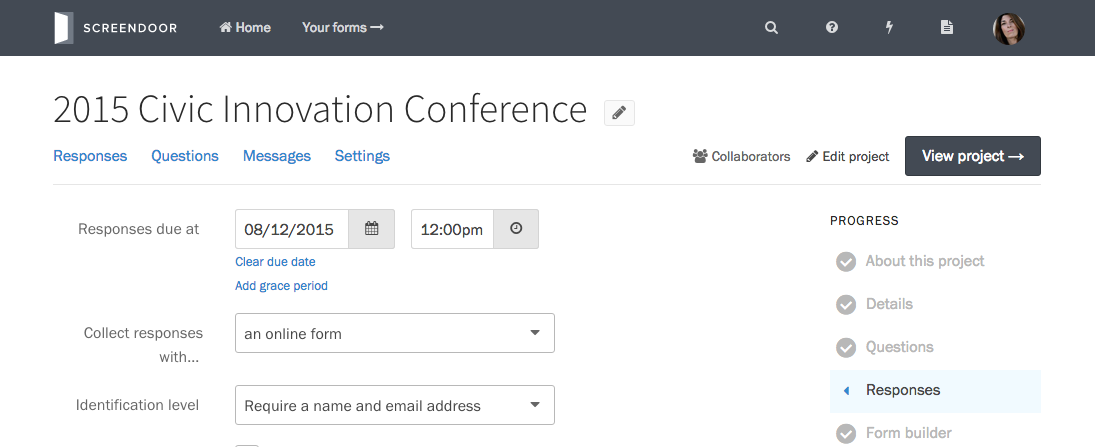
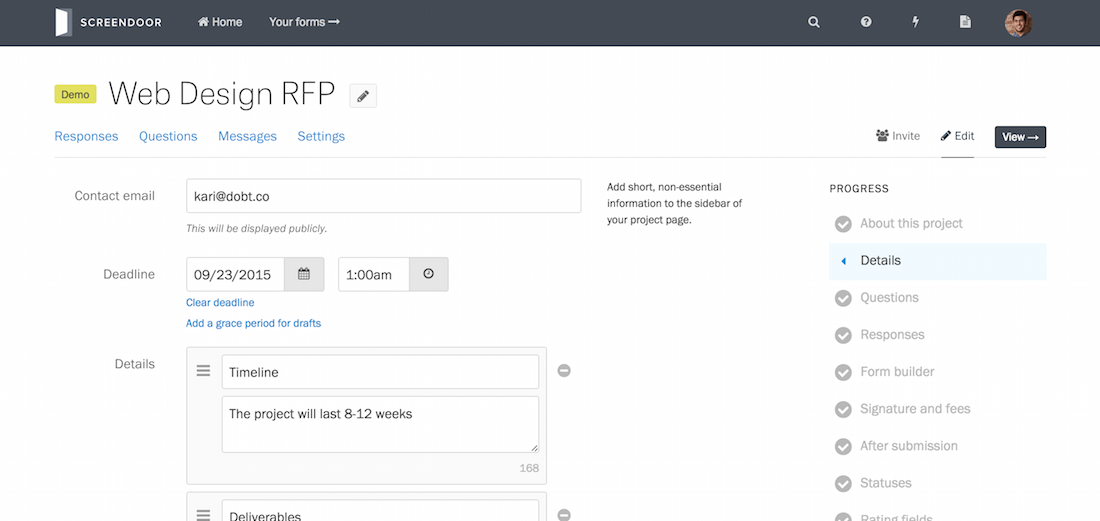
update location of deadline fields
@jrubenoff: this is a good reminder for us. now that aviv's no longer
doing this, we need to make sure that this content stays in-sync with
Screendoor.

diff --git a/contents/articles/screendoor/projects/deadline.md b/contents/articles/screendoor/projects/deadline.md
@@ -5,7 +5,7 @@ app_pages:
   - projectadmin-wizard-details
 ---
 
-To set a deadline for responses, press the &ldquo;Edit project&rdquo; button on the right side of the project header. In the Progress menu, select &ldquo;Responses.&rdquo;
+To set a deadline for responses, press the &ldquo;Edit project&rdquo; button on the right side of the project header. In the Progress menu, select &ldquo;Details.&rdquo;
 
 ### Adding a deadline to a project
 
